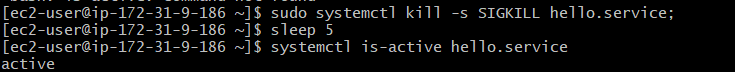
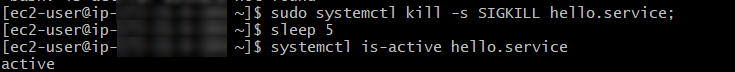
minor fixes

Changed region(s): [[0.1497, 0.0, 0.3293, 0.8056]]

diff --git a/docs/evidence.md b/docs/evidence.md
@@ -1,7 +1,7 @@
 # Evidence
 
 Proof that the deployed instance (`t3.micro`, Amazon Linux 2023, ap-south-1)
-behaves as the README claims. Captured on 2026-10-29 against
+behaves as the README claims. Captured on 2026-10-29 and 2026-10-30 against
 `http://3.110.27.143` (the IP changes on every new deploy).
 
 ## 1. Service is running under systemd
@@ -10,16 +10,9 @@ behaves as the README claims. Captured on 2026-10-29 against
 
 ## 2. Endpoints answer from the internet
 
-```text
-$ bash scripts/verify.sh http://3.110.27.143
-Checking http://3.110.27.143/health ...
-  OK  {"status": "ok", "uptime_seconds": 3097}
-Checking http://3.110.27.143/ ...
-  OK  Hello from hello-service!
-Checking unknown path returns 404 ...
-  OK  404
-All checks passed.
-```
+`scripts/verify.sh` run from the admin laptop against the public IP:
+
+![verify.sh against the public IP: health, root and 404 checks all pass](images/verify-public.png)
 
 ## 3. Crash: systemd restarts the process
 
@@ -30,66 +23,35 @@ All checks passed.
 ## 4. Hang: the health check detects it and restarts the service
 
 The process is frozen with `SIGSTOP`, so it is still "running" but answers
-nothing. The 1-minute timer probes `/health`, restarts the service and logs the
-result. Recovery took about 78 s.
+nothing, and systemd alone would not notice. The 1-minute timer probes
+`/health`, logs `FAIL`, restarts the service and logs `RECOVERED` once it
+answers again. An earlier timed run took 78 s from freeze to recovery.
 
-```text
-[ec2-user@ip-172-31-9-186 ~]$ systemctl show -p MainPID hello.service
-MainPID=2583
-[ec2-user@ip-172-31-9-186 ~]$ sudo systemctl kill -s SIGSTOP hello.service    # 21:06:55 UTC
-[ec2-user@ip-172-31-9-186 ~]$ curl -sS --max-time 3 http://127.0.0.1/health
-curl: (28) Operation timed out after 3002 milliseconds with 0 bytes received
-[ec2-user@ip-172-31-9-186 ~]$ journalctl -t hello-healthcheck --since -3min --no-pager
-Oct 29 21:08:08 ip-172-31-9-186 hello-healthcheck[5771]: FAIL: http://127.0.0.1/health not healthy, restarting hello.service
-Oct 29 21:08:13 ip-172-31-9-186 hello-healthcheck[5782]: RECOVERED: hello.service healthy after restart
-[ec2-user@ip-172-31-9-186 ~]$ systemctl show -p MainPID hello.service
-MainPID=5775
-[ec2-user@ip-172-31-9-186 ~]$ curl -sS --max-time 3 http://127.0.0.1/health
-{"status": "ok", "uptime_seconds": 9}
-```
+![SIGSTOP on hello.service, then the health check logs FAIL and RECOVERED](images/hang-recovery.png)
 
 ## 5. Reboot: the service starts on boot
 
-```text
-[ec2-user@ip-172-31-9-186 ~]$ uptime -s
-2026-10-29 20:05:17
-[ec2-user@ip-172-31-9-186 ~]$ sudo systemctl reboot              # 21:08:49 UTC
+The instance is rebooted at 08:37:56 UTC:
 
-# from the laptop, polling /health every 5 s:
-healthy again after ~10s at Thu Oct 29 21:09:05 UTC 2026
+![sudo reboot closes the SSH session](images/reboot.png)
 
-$ bash scripts/verify.sh http://3.110.27.143
-Checking http://3.110.27.143/health ...
-  OK  {"status": "ok", "uptime_seconds": 0}
-Checking http://3.110.27.143/ ...
-  OK  Hello from hello-service!
-Checking unknown path returns 404 ...
-  OK  404
-All checks passed.
+After the reboot, `verify.sh` passes again with no manual action. The low
+`uptime_seconds` (43) shows this is a fresh process started by systemd at boot:
 
-[ec2-user@ip-172-31-9-186 ~]$ uptime -s
-2026-10-29 21:08:58
-[ec2-user@ip-172-31-9-186 ~]$ systemctl is-enabled hello.service hello-healthcheck.timer
-enabled
-enabled
-[ec2-user@ip-172-31-9-186 ~]$ systemctl is-active hello.service hello-healthcheck.timer
-active
-active
-```
+![verify.sh passing after the reboot, uptime 43 seconds](images/verify-public.png)
 
 ## 6. Network restrictions
 
-Probed from the admin laptop (public IP `49.43.133.168`, the `admin_cidr`):
+Requests to the instance's own public IP leave through the internet gateway and
+come back in through the security group, so the firewall rules apply. Port 8080
+**times out**: the security group drops the packets, so the connection is never
+even refused. Port 80, the only public port, answers:
 
-```text
-$ curl --max-time 5 http://3.110.27.143:8080/
-curl: (28) Connection timed out after 5007 milliseconds
+![curl to port 8080 times out, curl to port 80 /health returns ok](images/network-checks.png)
 
-port 22:   open              (allowed only from 49.43.133.168/32)
-port 80:   open              (public)
-port 8080: closed/filtered   (app's dev port, not exposed)
-port 3306: closed/filtered
-```
+A port probe from the admin laptop (`49.43.133.168`, the `admin_cidr`) gave the
+same picture: 22 and 80 open, 8080 and 3306 filtered. SSH is open only to that
+`/32`.
 
 ## 7. CI
 
